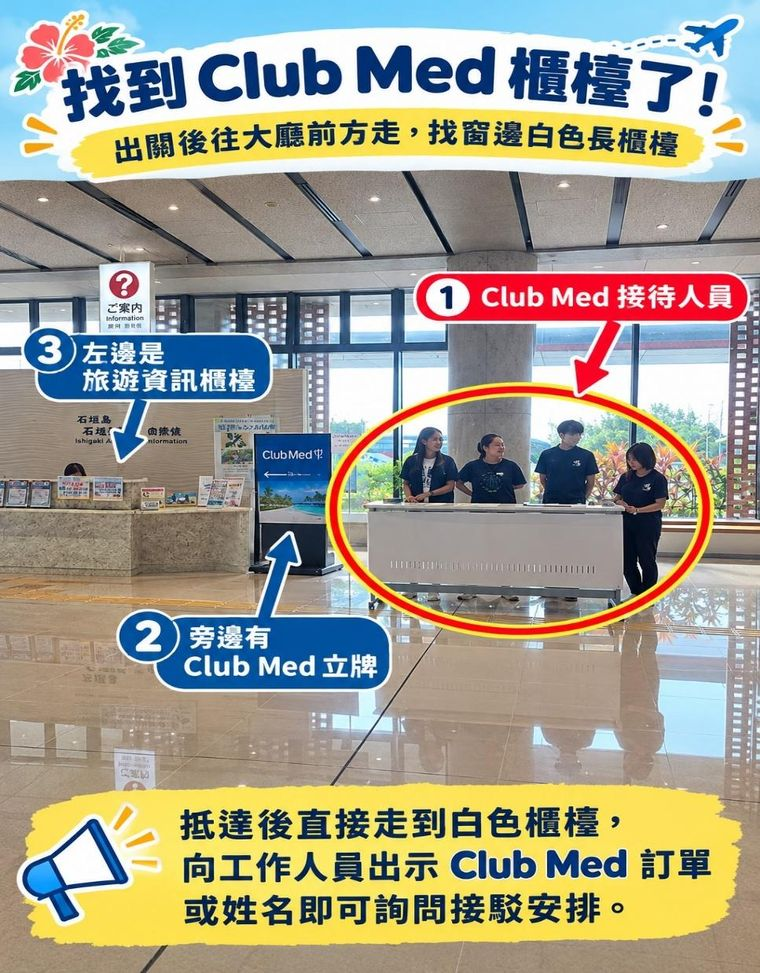
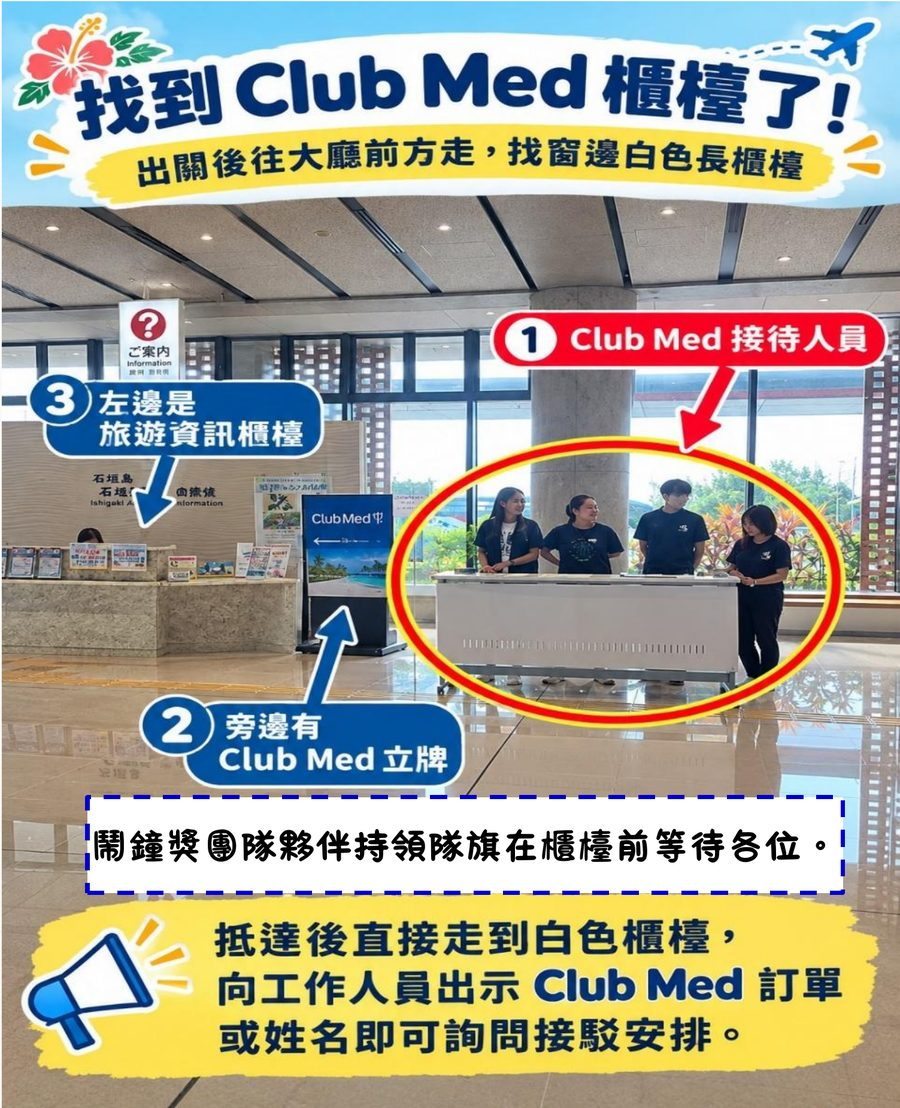
fix: 機場櫃檯位置圖更新為最新版（含「團隊夥伴持領隊旗等待」說明），改用高解析圖
Claude-Session: https://claude.ai/code/session_01YSzTHT66MvGGuiida2bzWV

diff --git a/sw.js b/sw.js
@@ -1,5 +1,5 @@
 /* 離線快取：連上網時永遠拿最新版，沒訊號時用上次存下的內容 */
-const V = 'isg-v7';
+const V = 'isg-v8';
 const FILES = ["./", "index.html", "manifest.webmanifest", "assets/apple-touch-icon.png", "assets/archery.jpg", "assets/beach.jpg", "assets/counter.jpg", "assets/cover.jpg", "assets/icon-192.png", "assets/icon-512.png", "assets/info-quick.jpg", "assets/info-security.jpg", "assets/info-tax.jpg", "assets/info-vjw.jpg", "assets/kids.jpg", "assets/kidspool.jpg", "assets/pool.jpg", "assets/poster.jpg", "assets/resort-map.jpg", "assets/restaurant.jpg", "assets/room-deluxe.jpg", "assets/room-standard.jpg", "assets/salon-baoge.jpg", "assets/salon1.jpg", "assets/salon2.jpg", "assets/salon3.jpg", "assets/tennis.jpg", "assets/terrace.jpg", "assets/trapeze.jpg", "assets/water.jpg"];
 self.addEventListener('install', e => {
   e.waitUntil(caches.open(V).then(c => c.addAll(FILES)).then(() => self.skipWaiting()));

diff --git a/index.html b/index.html
@@ -625,7 +625,7 @@ nav button.on::before{content:"";position:absolute;top:0;width:34px;height:3.5px
 
   <div class="sec-title" id="i-arrive">🚐 抵達石垣島・報到流程</div>
   <div class="card">
-    <button class="zoom" data-zoom="assets/counter.jpg" aria-label="放大查看 Club Med 櫃檯位置圖"><img src="assets/counter.jpg" alt="石垣島機場 Club Med 接待櫃檯位置" loading="lazy" width="760" height="973"></button>
+    <button class="zoom" data-zoom="assets/counter.jpg" aria-label="放大查看 Club Med 櫃檯位置圖"><img src="assets/counter.jpg" alt="石垣島機場 Club Med 接待櫃檯位置" loading="lazy" width="900" height="1108"></button>
     <ol class="steps">
       <li><b>出關後往大廳前方走</b>，找窗邊的白色長櫃檯。</li>
       <li>櫃檯旁有 <b>Club Med 立牌</b>；左邊是旅遊資訊櫃檯。<b>鬧鐘獎團隊夥伴會持領隊旗在櫃檯前等大家。</b></li>
